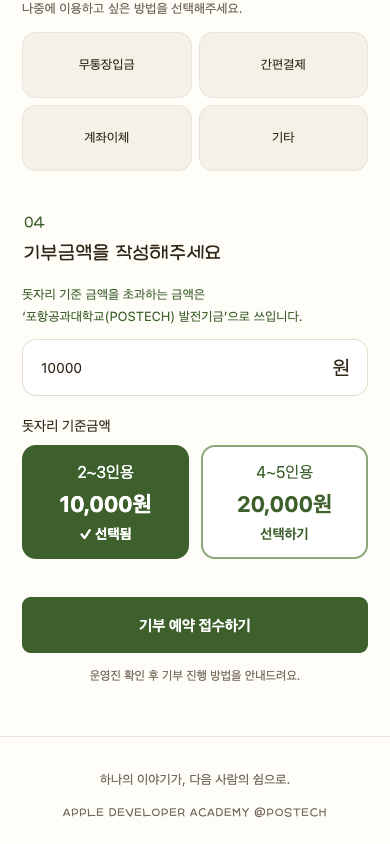
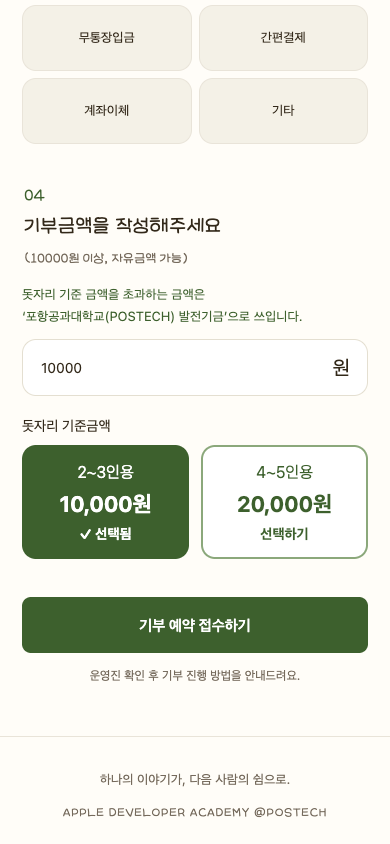
[fix] 기부금액 최소값과 자유 입력 안내 추가

diff --git a/apps/web/src/components/reservation-form.tsx b/apps/web/src/components/reservation-form.tsx
@@ -70,7 +70,7 @@ export function ReservationForm({ sourceStoryId }: { sourceStoryId?: string }) {
       <fieldset className="reservation-question"><legend><span>01</span> 돗자리에 남길 이야기를 들려주세요</legend><div id="story-guidance" className="story-guidance"><p>어떤 이야기를 담을지 고민된다면 아래 질문을 천천히 떠올려보세요. 꼭 질문에 맞추지 않아도 괜찮아요.</p><ul><li>고마움을 전하거나 기억하고 싶은 대상이 있나요?</li><li>다른 사람들과 나누고 싶은 나만의 이야기가 있나요?</li><li>이 돗자리를 펼칠 사람에게 어떤 마음을 건네고 싶나요?</li></ul></div><label><span className="sr-only">마음을 담은 한 줄</span><input name="title" maxLength={80} placeholder="마음을 담은 한 줄" required /></label><label><span className="sr-only">스토리</span><textarea aria-label="스토리" name="story" value={text} onChange={(e) => setText(e.target.value)} placeholder="당신의 이야기를 들려주세요" rows={5} required aria-describedby="story-guidance reservation-bytes" /><small id="reservation-bytes" className={`byte-counter ${byteLength(text) > STORY_MAX_BYTES ? "error-message" : ""}`}>{byteLength(text)} / {STORY_MAX_BYTES}바이트</small></label><label className="photo-upload">{preview ? <img src={preview} alt="선택한 사진 미리보기" /> : <span className="photo-upload-copy"><strong>＋</strong>사진 추가<small>JPG, PNG, WebP · 한 장 · 최대 5MB</small></span>}<span className="sr-only">사진 추가</span><input aria-label="사진 추가" name="photo" type="file" accept="image/jpeg,image/png,image/webp" required onChange={(e) => { const file = e.target.files?.[0]; if (file) trackActivity("photo_selected"); setPreview(file ? URL.createObjectURL(file) : ""); }} /></label></fieldset>
       <fieldset className="reservation-question"><legend><span>02</span> 성함과 이메일을 남겨주세요</legend><p id="reservation-contact-note" className="field-description">추후 정식 기부 운영 시, 남겨주신 이메일로 예약 내용의 진행 여부를 확인하는 메일을 보내드립니다.</p><label><span className="sr-only">성함</span><input name="displayName" autoComplete="name" maxLength={40} placeholder="성함" value={isAnonymous ? "익명" : displayName} onChange={(e) => setDisplayName(e.target.value)} disabled={isAnonymous} required={!isAnonymous} /></label><label className="anonymous-option"><input type="checkbox" name="isAnonymous" value="true" checked={isAnonymous} onChange={(e) => setIsAnonymous(e.target.checked)} />익명</label><label><span className="sr-only">이메일</span><input name="email" type="email" aria-describedby="reservation-contact-note" autoComplete="email" maxLength={254} placeholder="이메일" required /></label></fieldset>
       <fieldset className="reservation-question"><legend><span>03</span> 결제방법을 선택해주세요</legend><p className="field-description">나중에 이용하고 싶은 방법을 선택해주세요.</p><div className="payment-options">{Object.entries(paymentMethods).map(([value, label]) => <label key={value}><input type="radio" name="paymentMethod" value={value} required /><span>{label}</span></label>)}</div></fieldset>
-      <fieldset className="reservation-question"><legend><span>04</span> 기부금액을 작성해주세요</legend><p id="reservation-amount-note" className="field-description amount-note">돗자리 기준 금액을 초과하는 금액은<br />‘포항공과대학교(POSTECH) 발전기금’으로 쓰입니다.</p><label className="amount-input"><span className="sr-only">기부금액</span><input name="amount" value={amount} onChange={event => setAmount(event.target.value)} type="number" min={RESERVATION_MIN_AMOUNT} max={RESERVATION_MAX_AMOUNT} inputMode="numeric" step={1} placeholder="0" required aria-describedby="reservation-amount-note reservation-base-amounts" /><span className="amount-unit" aria-hidden="true">원</span></label><div id="reservation-base-amounts" className="base-amounts"><p>돗자리 기준금액</p><div className="amount-options" role="group" aria-label="돗자리 기준금액 선택">{Object.entries(sizes).map(([key, size]) => <button key={key} type="button" className="amount-option" aria-pressed={amount === String(size.price)} onClick={() => { setAmount(String(size.price)); requestId.current = ""; }}><span>{size.label}</span><strong>{size.price.toLocaleString("ko-KR")}원</strong><span className="amount-selection" aria-hidden="true">{amount === String(size.price) ? "✓ 선택됨" : "선택하기"}</span></button>)}</div></div></fieldset>
+      <fieldset className="reservation-question"><legend><span>04</span> 기부금액을 작성해주세요 <small>(10000원 이상, 자유금액 가능)</small></legend><p id="reservation-amount-note" className="field-description amount-note">돗자리 기준 금액을 초과하는 금액은<br />‘포항공과대학교(POSTECH) 발전기금’으로 쓰입니다.</p><label className="amount-input"><span className="sr-only">기부금액</span><input name="amount" value={amount} onChange={event => setAmount(event.target.value)} type="number" min={RESERVATION_MIN_AMOUNT} max={RESERVATION_MAX_AMOUNT} inputMode="numeric" step={1} placeholder="0" required aria-describedby="reservation-amount-note reservation-base-amounts" /><span className="amount-unit" aria-hidden="true">원</span></label><div id="reservation-base-amounts" className="base-amounts"><p>돗자리 기준금액</p><div className="amount-options" role="group" aria-label="돗자리 기준금액 선택">{Object.entries(sizes).map(([key, size]) => <button key={key} type="button" className="amount-option" aria-pressed={amount === String(size.price)} onClick={() => { setAmount(String(size.price)); requestId.current = ""; }}><span>{size.label}</span><strong>{size.price.toLocaleString("ko-KR")}원</strong><span className="amount-selection" aria-hidden="true">{amount === String(size.price) ? "✓ 선택됨" : "선택하기"}</span></button>)}</div></div></fieldset>
       {error && <p role="alert" className="error-message">{error}</p>}<button className="button primary reservation-submit" onClick={() => trackActivity("reservation_submit_click")} disabled={busy || byteLength(text) > STORY_MAX_BYTES}>{busy ? "예약을 접수하는 중…" : "기부 예약 접수하기"}</button><p className="reservation-footnote">운영진 확인 후 기부 진행 방법을 안내드려요.</p>
     </fieldset></form>
     <dialog ref={reasonDialog} className="reservation-reason-dialog" aria-labelledby="reservation-reason-title" onCancel={event => { if (locked.current) event.preventDefault(); }}>

diff --git a/apps/web/src/app/globals.css b/apps/web/src/app/globals.css
@@ -166,3 +166,5 @@ label{display:block;font-size:14px;font-weight:600}input,textarea,select{display
 .amount-option:focus-visible{outline:3px solid #713f08;outline-offset:3px}
 .amount-option:disabled{cursor:default;opacity:.6}
 .amount-selection{font-size:14px;font-weight:700}
+
+.reservation-question legend small{display:block;font-size:14px;font-weight:400;margin-top:6px}
